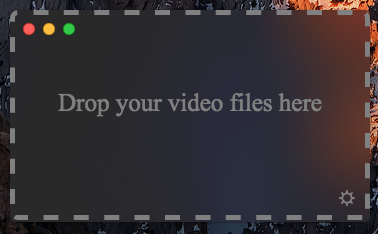
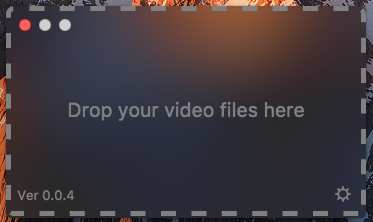
Added menu, refactored main process & version number.

diff --git a/index.html b/index.html
@@ -5,26 +5,42 @@
   <meta charset="utf-8">
   <title>SubtiTron</title>
   <style>
+    * {
+      cursor: default;
+    }
     body {
       margin: 0 0 0 0;
       /*background: rgb(230, 230, 230);*/
       -webkit-user-select: none;
       -webkit-app-region: drag;
+      font: caption;
     }
-
+    select {
+      -webkit-app-region: no-drag;
+    }
     #txtDrag {
       margin: 0 0 0 0;
       color: grey;
-      font-size: 20;
+      font-size: 1.5em;
       position: relative;
       float: left;
-      top: 50%;
+      top: 56%;
       left: 50%;
       transform: translate(-50%, -50%);
       z-index: -1;
     }
-
-    #wrapper {
+    #txtVersion {
+      margin: 0 0 0 0;
+      color: grey;
+      font-size: 1em;
+      position: relative;
+      float: left;
+      top: 35%;
+      left: 10%;
+      transform: translate(-50%, -50%);
+      z-index: -1;
+    }
+    .wrapper {
       margin: 5;
       width: 350px;
       height: 200px;
@@ -33,16 +49,13 @@
       background-repeat: no-repeat;
       background-size: 100%;
     }
-
     #holder {
       width: auto;
       height: 175px;
     }
-
     #box2 {
       height: 25px;
     }
-
     #settings {
       float: right;
       margin-right: 10px;
@@ -52,17 +65,31 @@
 </head>
 
 <body>
-  <div id="wrapper">
+  <div class="wrapper" id="main">
+    <div id="holder">
+      <p id="txtDrag">Drop your video files here</p>
+    </div>
+    <div id="box2">
+      <span id="txtVersion"></span>
+      <img id="settings" src="assets/imgs/settings.png" alt="settings" onclick="openSettings()" />
+    </div>
+  </div>
+  <!-- <div class id="settingsScrn">
     <div id="holder">
       <p id="txtDrag">Drop your video files here</p>
     </div>
     <div id="box2">
       <img id="settings" src="assets/imgs/settings.png" alt="settings" onclick="openSettings()" />
     </div>
-  </div>
+  </div> -->
   <script>
-    const dialog = require('electron').remote.dialog;
-    const main = require('electron').remote.require('./main.js')
+    const { remote } = require('electron'),
+      appVersion = remote.app.getVersion(),
+      arguments = remote.getGlobal('arguments').args
+    const dialog = remote.dialog
+    const main = remote.require('./main.js')
+
+    document.getElementById('txtVersion').innerHTML = `Ver ${appVersion}`
 
     // Check internet
 
@@ -75,18 +102,17 @@
 
     const holder = document.getElementById('holder')
     holder.ondragover = () => {
-      return false;
+      return false
     }
     holder.ondragleave = holder.ondragend = () => {
-      return false;
+      return false
     }
     holder.ondrop = (e) => {
-      e.preventDefault()
       for (let f of e.dataTransfer.files) {
         // alert('File type: ' + f.type + ', path: ' + f.path)
         main.getSubtitle(f.path, f.name)
       }
-      return false;
+      return false
     }
 
     // Settings
@@ -94,13 +120,6 @@
     function openSettings() {
       main.openSettings()
     }
-
-    // Arguments
-
-    const { remote } = require('electron'),
-           arguments = remote.getGlobal('arguments').args;
-
-    console.log(arguments);
   </script>
 </body>
 

diff --git a/main.js b/main.js
@@ -1,4 +1,5 @@
-const {app, Menu, BrowserWindow} = require('electron')
+// Declare some variables
+const {app, BrowserWindow, Menu} = require('electron')
 const OS = require('opensubtitles-api')
 const helper = require('./helper.js')
 // userAgent change constantly. Check out: http://trac.opensubtitles.org/projects/opensubtitles/wiki/DevReadFirst
@@ -7,27 +8,35 @@ const OpenSubtitles = new OS({
   useragent: userAgent,
   ssl: true
 })
+let mainWindow
+let menu = Menu.buildFromTemplate([{
+  label: app.getName(),
+  submenu: [{
+    role: 'quit'
+  }]
+}])
 
-require('electron-reload')(__dirname)
-
-let mainWindow = null
-
-app.on('window-all-closed', app.quit)
+// Testing
 
 global.arguments = {
   args: process.argv
 }
+require('electron-reload')(__dirname)
+
+// End Testing
+
+app.on('window-all-closed', app.quit)
 
 app.on('ready', () => {
-  Menu.setApplicationMenu(null)
-
   mainWindow = new BrowserWindow({
-    title: false,
+    title: 'SubtiTron',
+    center: true,
     width: 360,
     height: 212,
     useContentSize: true,
     resizable: false,
-    fullscreen: false,
+    minimizable: false,
+    maximizable: false,
     titleBarStyle: 'hidden-inset',
     alwaysOnTop: true,
     vibrancy: 'dark',
@@ -37,6 +46,8 @@ app.on('ready', () => {
       defaultFontSize: 25
     }
   })
+
+  Menu.setApplicationMenu(menu)
 
   mainWindow.on('closed', () => {
     mainWindow = null
@@ -50,7 +61,7 @@ app.on('ready', () => {
   // when dropping them on the WebView.
   mainWindow.webContents.on('will-navigate', event => event.preventDefault())
 
-  // mainWindow.webContents.openDevTools()
+  mainWindow.webContents.openDevTools()
 
   // arguments
   process.argv.forEach((arg) => {

diff --git a/changelog.md b/changelog.md
@@ -9,7 +9,9 @@
 
 * Added electron-reload package.
 
-* License changed to Creative Commons Attribution-ShareAlike 4.0
+* License changed to Creative Commons Attribution-ShareAlike 4.0.
+
+* Added Menu & Version number.
 
 0.0.3
 =====
